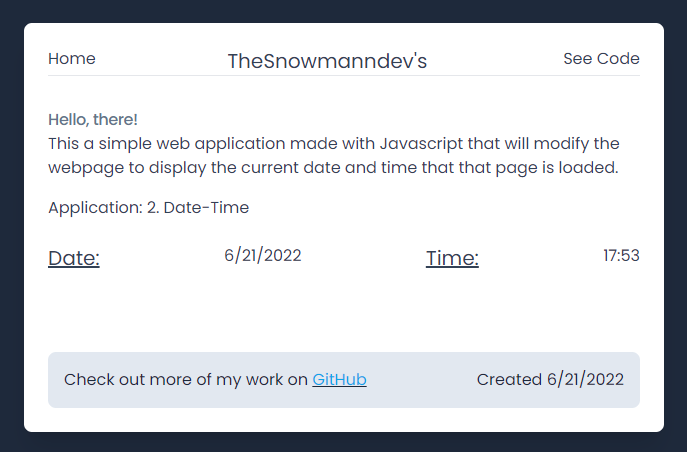
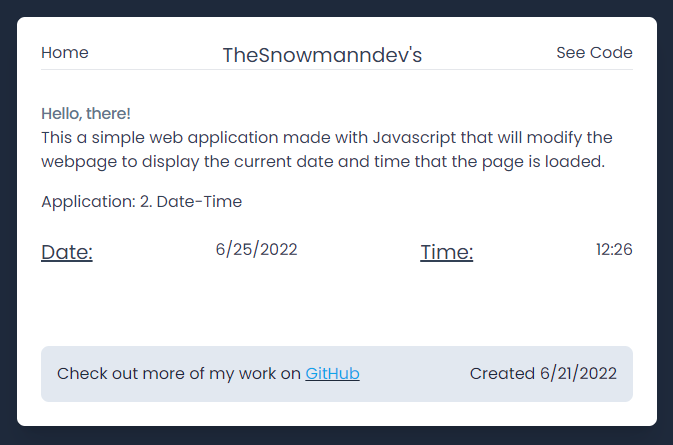
Fixed spelling

diff --git a/2. Date-time/src/app.js b/2. Date-time/src/app.js
@@ -76,7 +76,7 @@ function setHeader() {
     </h1>
     <p>
         This a simple web application made with Javascript that will modify
-        the webpage to display the current date and time that that page is
+        the webpage to display the current date and time that the page is
         loaded. 
     </p>
     <p class="mt-4">
